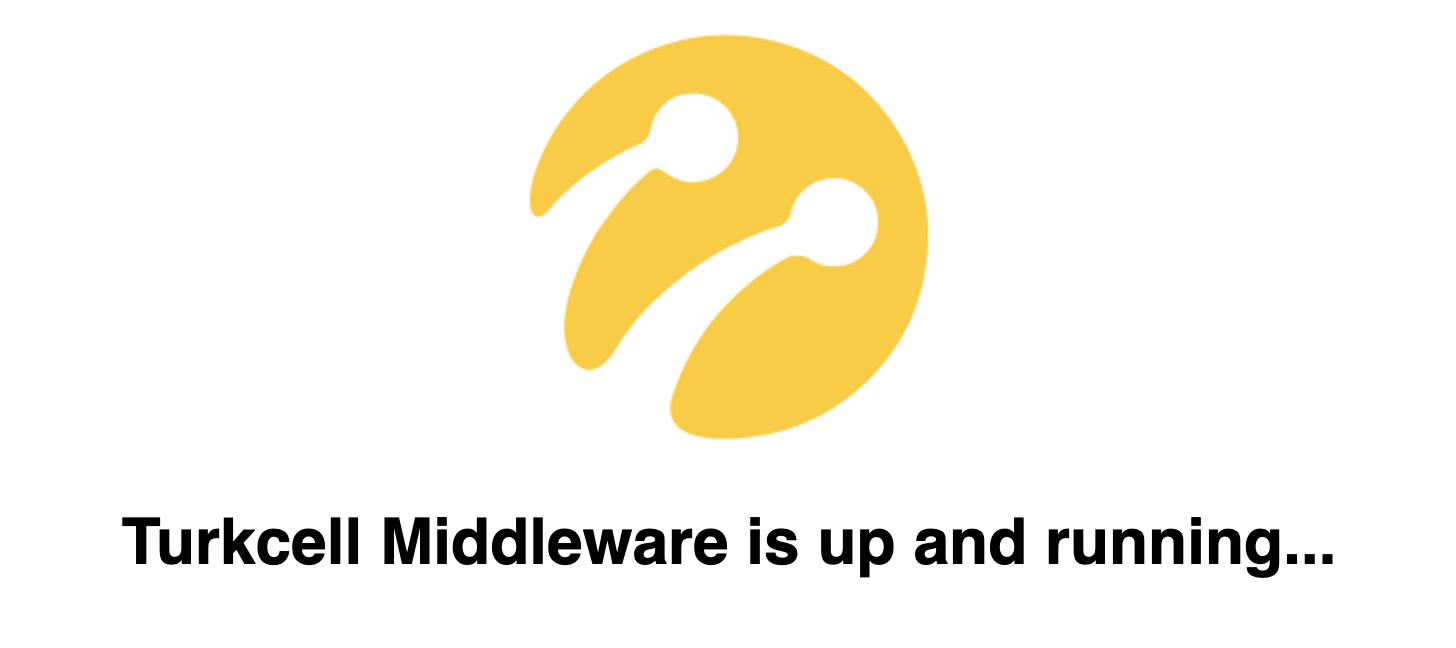
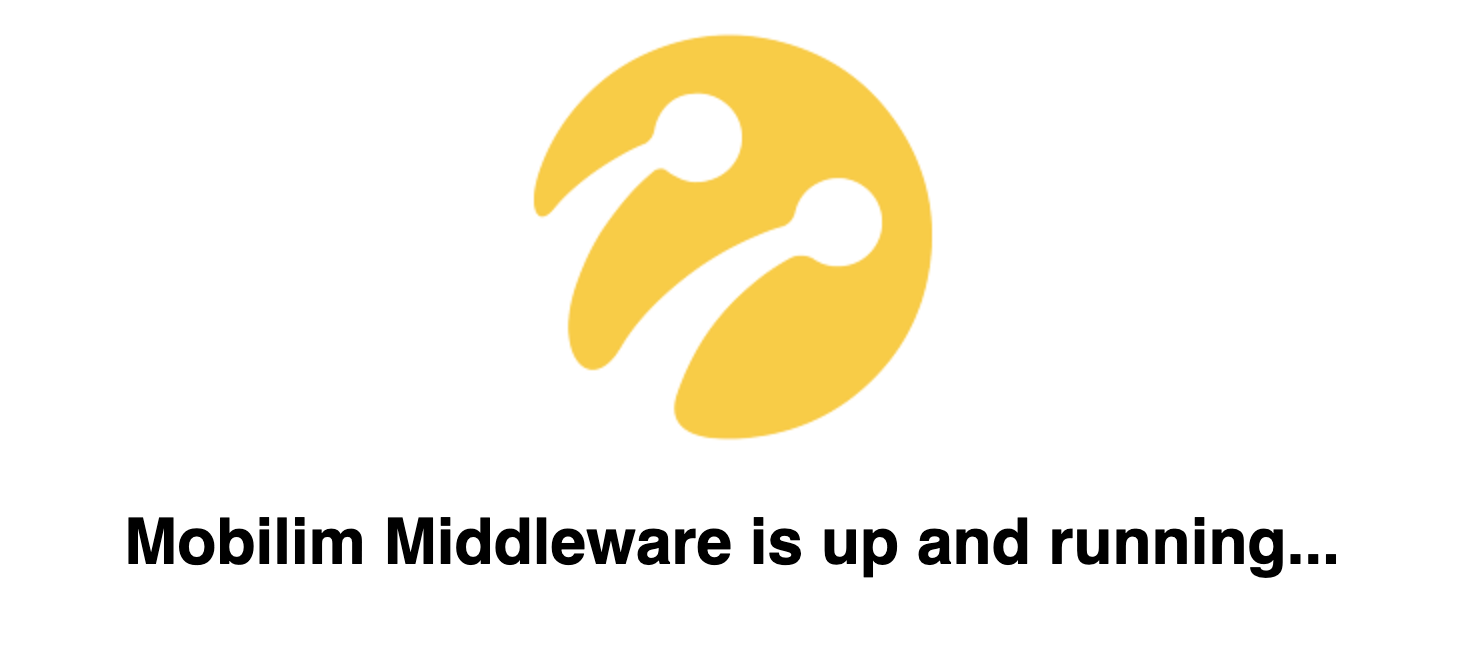
docs: Update Readme

diff --git a/index.js b/index.js
@@ -12,9 +12,9 @@ app.get('/', function(req, res) {
       .status(GENERIC_SUCCESS_CODE)
       .send('<title>Turkcell</title>' +
          '<center><img src="https://encrypted-tbn0.gstatic.com/images?q=tbn:ANd9GcTSAxCVXwC-y6LSdUTcxZZkL1Mvxo_cDpDMv_U_fMbiDdce9D2A" ></img> ' +
-         '<h1 style="font-family:sans-serif;">Turkcell Mobilim Middleware is up and running...</h1></center>').end();
+         '<h1 style="font-family:sans-serif;">Mobilim Middleware is up and running...</h1></center>').end();
 });
 
-app.listen(PORT, () => console.log(`Turkcell Mobilim Middleware listening on port ${PORT}!`));
+app.listen(PORT, () => console.log(`Mobilim Middleware listening on port ${PORT}!`));
 
 pickEndpoints(app, endpoints);

diff --git a/README.md b/README.md
@@ -1,4 +1,6 @@
-# turkcell-poc-middleware
+<img src="https://encrypted-tbn0.gstatic.com/images?q=tbn:ANd9GcTSAxCVXwC-y6LSdUTcxZZkL1Mvxo_cDpDMv_U_fMbiDdce9D2A" width="100">
+
+# turkcell-mobilim-middleware
 
 ## Installation
 
@@ -31,4 +33,4 @@ localhost:80
 ```
 - See the screen down below
 
-<img src="resources/main.png" width="300">
+<img src="resources/main.png" width="400">
